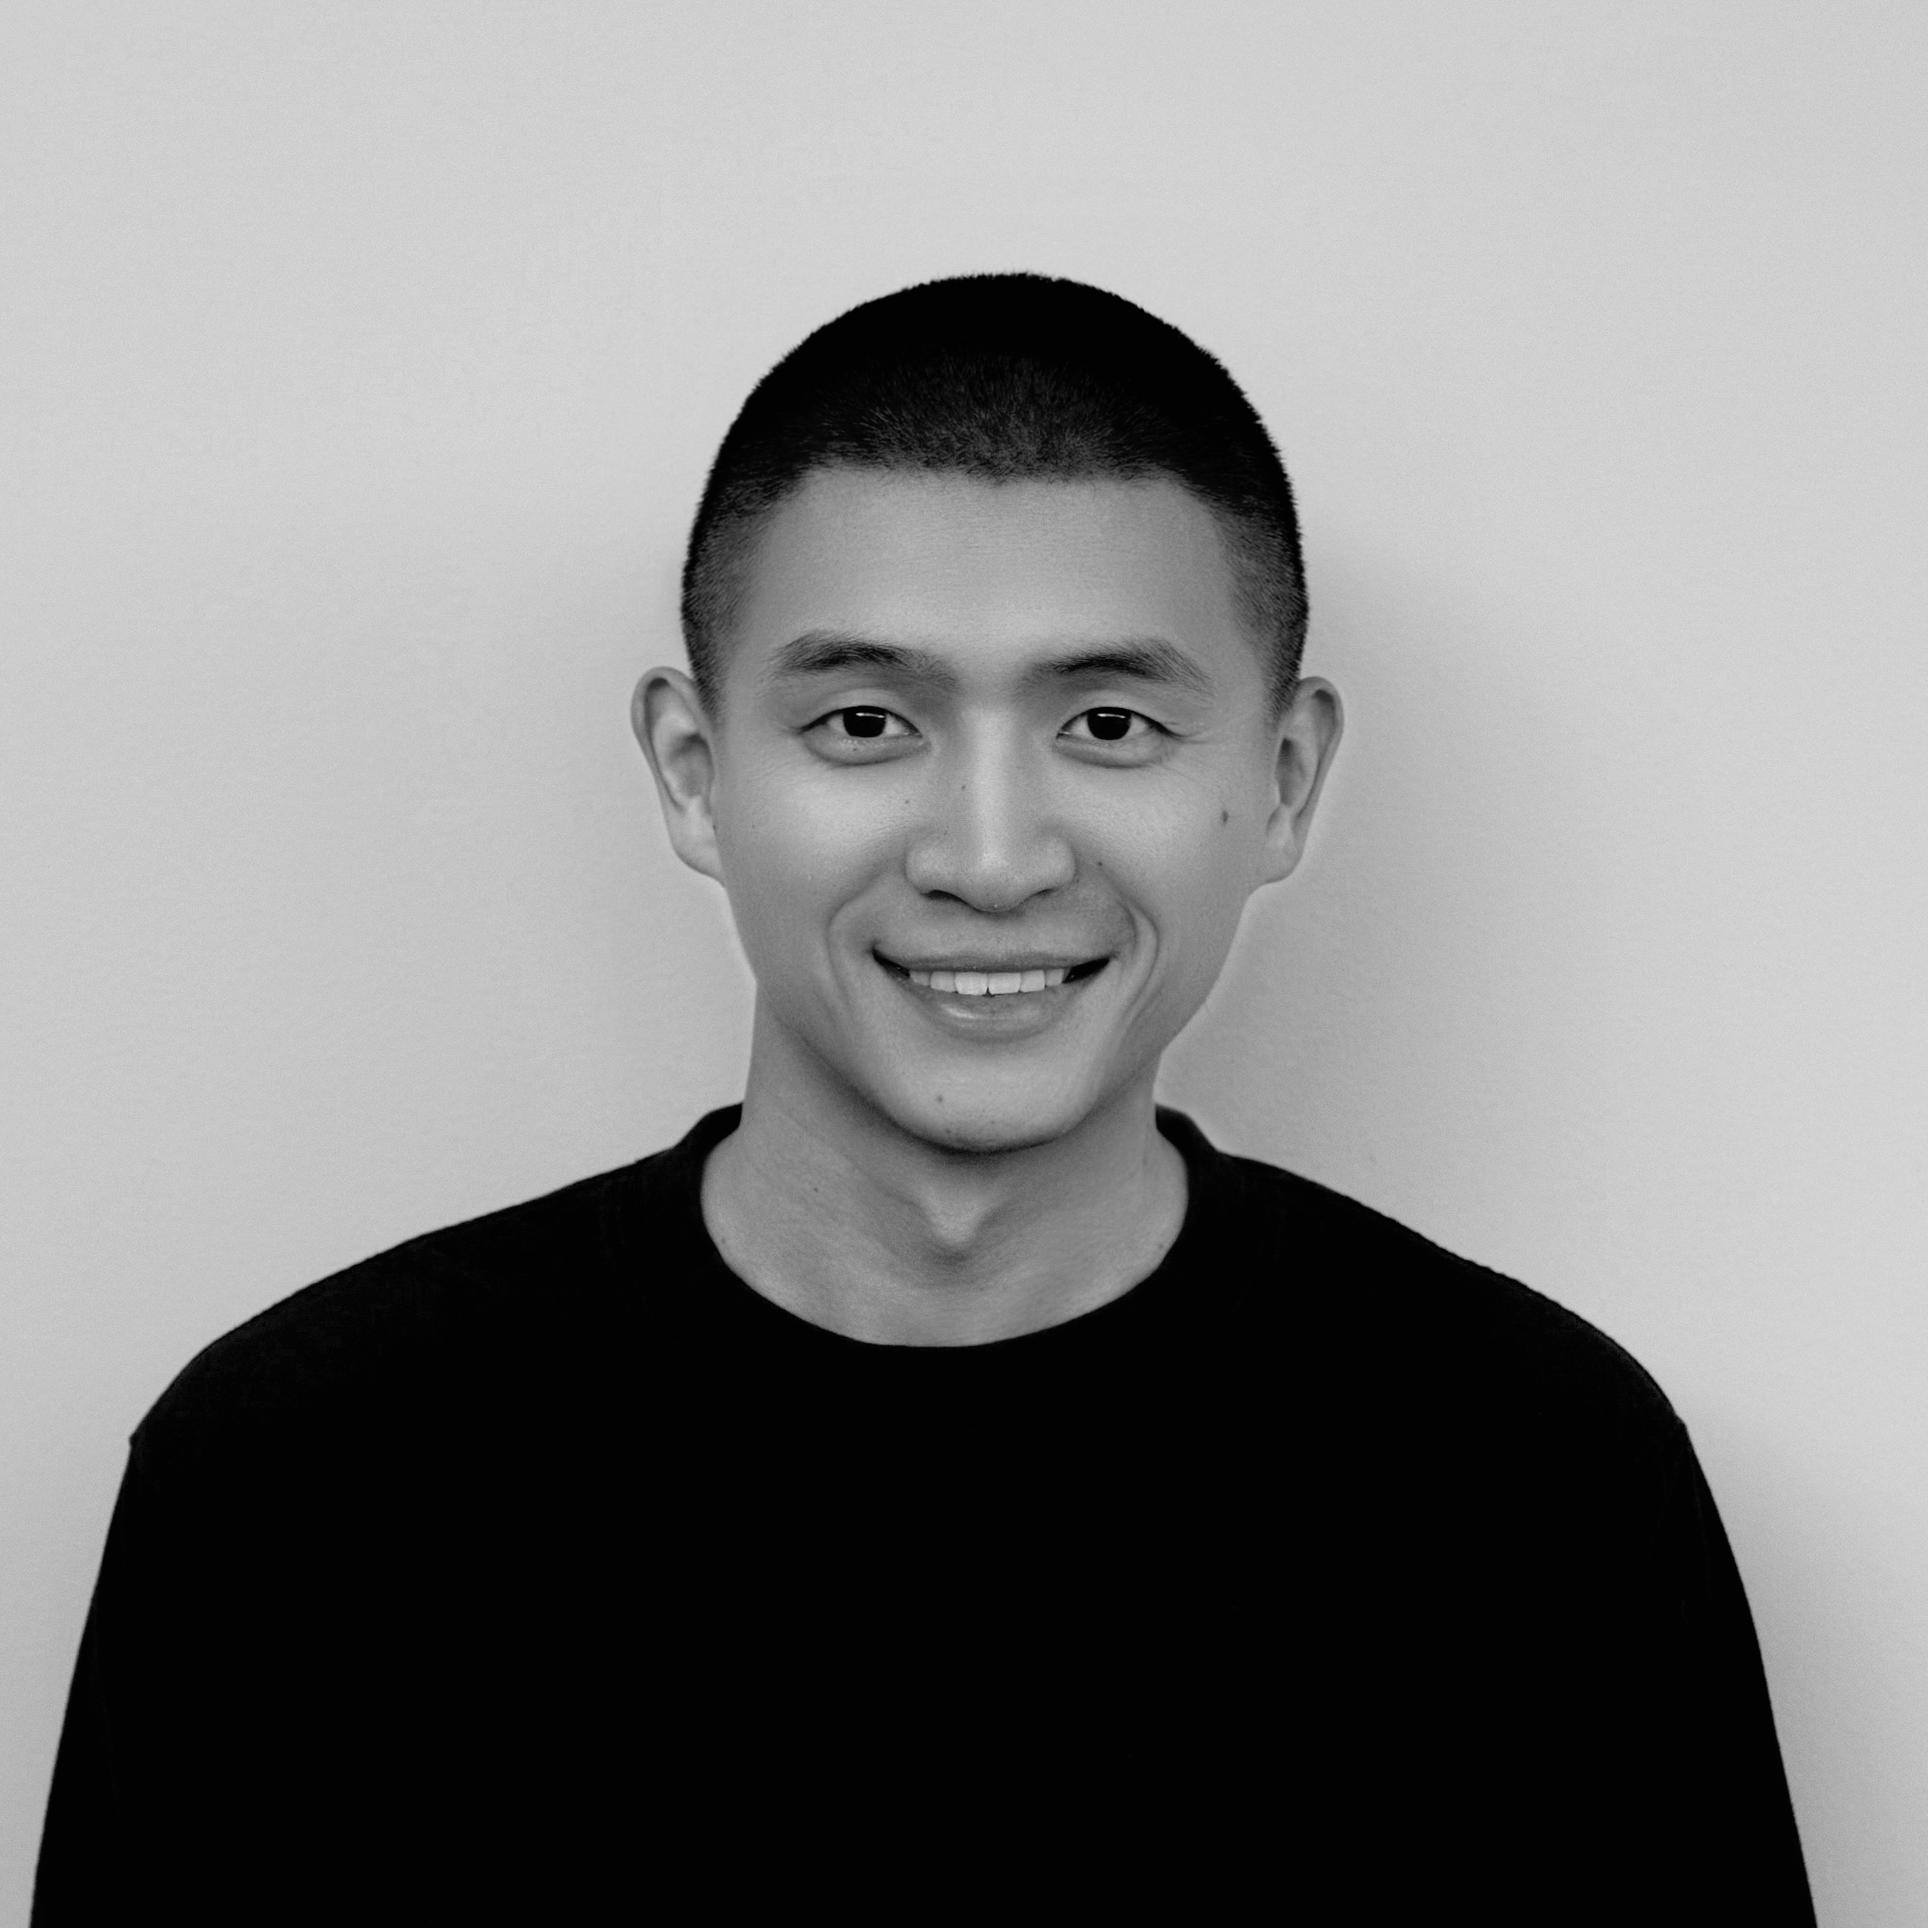
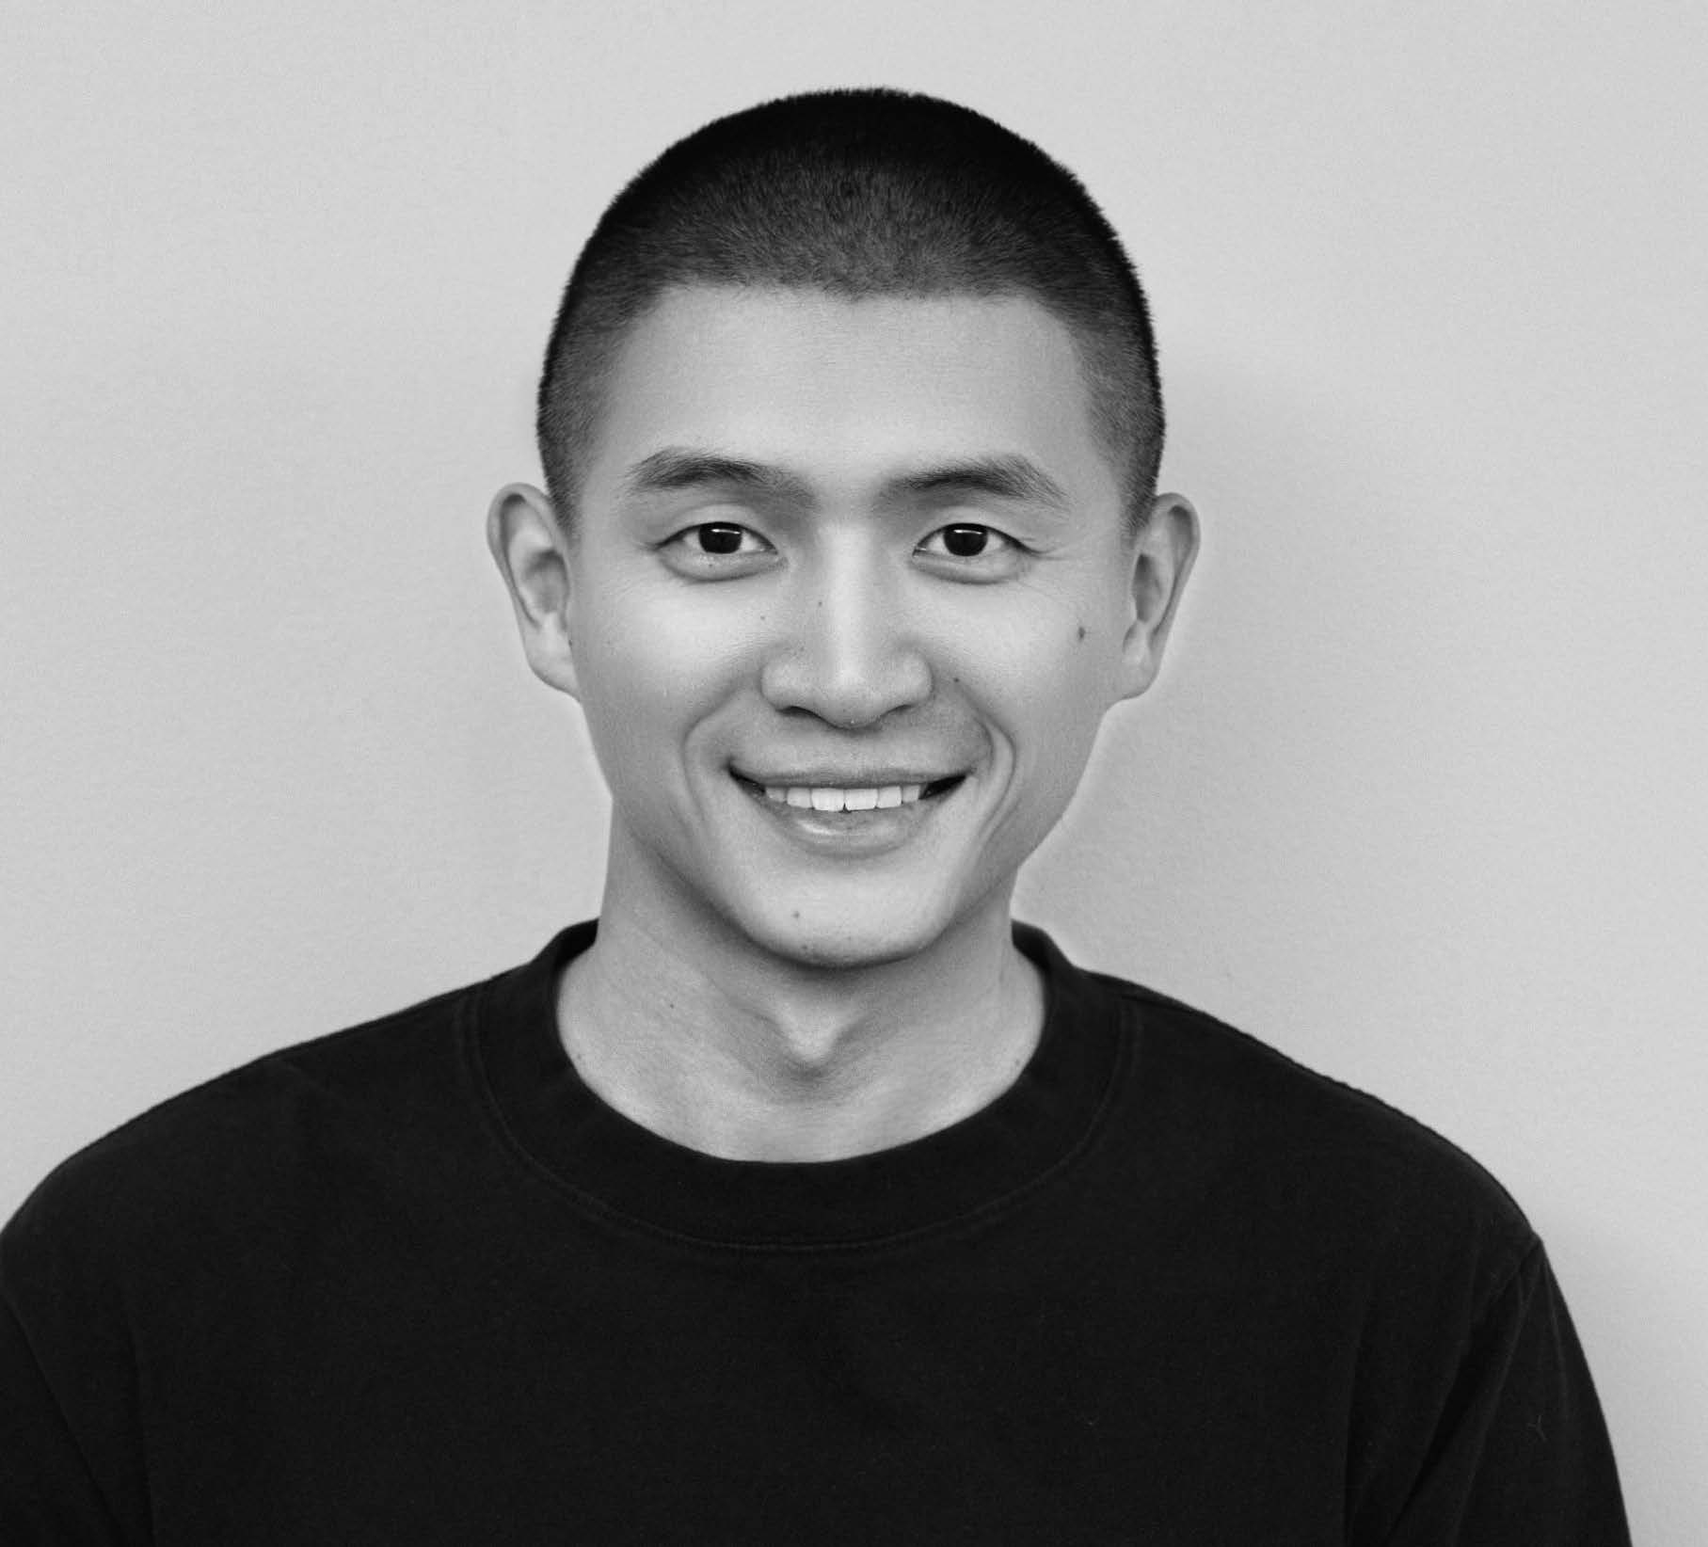
PIC

Changed region(s): [[0.0, 0.031, 0.9565, 1.0], [0.3085, 0.7445, 0.3394, 0.7755], [0.2777, 0.7135, 0.3085, 0.7445]]

diff --git a/index.html b/index.html
@@ -169,7 +169,11 @@ body {
                 <!-- <img class="img-circle" alt="" src="pic/black.jpg" onMouseOver="this.src='pic/full.png'" onMouseOut="this.src='pic/black.jpg'" border="0" width="250px"> -->
                 <!-- <img class="img-circle" alt="" src="pic/adidas.jpg" onMouseOver="this.src='pic/full.png'" onMouseOut="this.src='pic/adidas.jpg'" border="0" width="250px"> -->
                 <!-- <img class="img-circle" alt="" src="pic/prof.jpg" border="0" width="200px"> -->
+
                 <img class="img-circle" alt="" src="pic/prof_warm_2.jpg" border="0" width="200px">
+                <!-- <img class="img-circle" alt="" src="pic/bw_pic.jpg" border="0" width="200px"> -->
+
+
                 <!-- <img class="img-circle" alt="" src="pic/past.jpg" border="0" width="200px"> -->
 
             </td>
